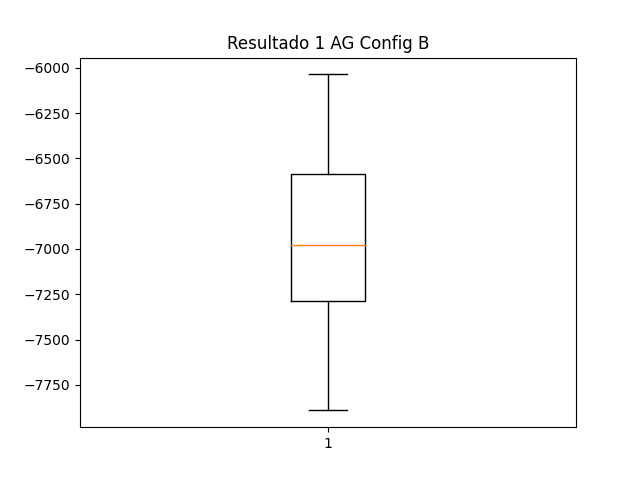
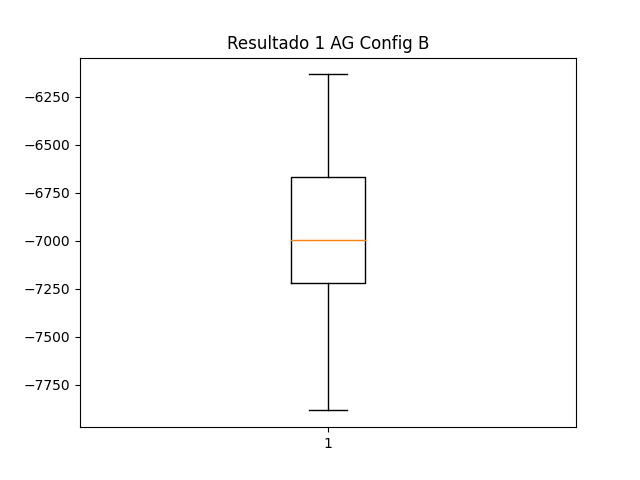
Execução nova 30x

diff --git a/main.py b/main.py
@@ -49,7 +49,7 @@ print("Critério de parada:")
 print("\tQuantidade de iterações sem uma melhora significativa: 10")
 print("\nRealizando 30 iteracoes dos algoritmos...")
 
-for i in range(5):
+for i in range(30):
    Resultado, VarsDec = questao1_A()
    Resultados1_AG_A.append(Resultado)
    ResultadosVarDec1_AG_A.append(VarsDec)
@@ -64,12 +64,12 @@ VarsSolucao = ResultadosVarDec1_AG_A[melhorSolucao]
 archive.write("\n----------------------")
 archive.write("\nFuncao Objetivo 1 - AG  Config A:")
 archive.write("\nVariaveis de decisao da melhor solução X: " + str(min(Resultados1_AG_A)))
-archive.write("\nMin: " + str(min(Resultados1_AG_A)) + "-> Variaveis de decisao: x1: "+str(VarsSolucao[0]) +" x2: "+str(VarsSolucao[1]))
+archive.write("\nMin: " + str(min(Resultados1_AG_A)) + " -> Variaveis de decisao: x1: "+str(VarsSolucao[0]) +" x2: "+str(VarsSolucao[1]))
 archive.write("\nMax: " + str(max(Resultados1_AG_A)))
 archive.write("\nMedia: " + str(mean(Resultados1_AG_A)))
 archive.write("\nStd: " + str(std(Resultados1_AG_A)))
 print("Funcao Objetivo 1 - AG  Config A:")
-print("Min: ",min(Resultados1_AG_A),"-> Variaveis de decisao: x1: ",VarsSolucao[0]," x2: ",VarsSolucao[1])
+print("Min: ",min(Resultados1_AG_A)," -> Variaveis de decisao: x1: ",VarsSolucao[0]," x2: ",VarsSolucao[1])
 print("Max: ",max(Resultados1_AG_A))
 print("Media: ",mean(Resultados1_AG_A))
 print("Std: ",std(Resultados1_AG_A))
@@ -82,13 +82,13 @@ melhorSolucao = Resultados1_AG_B.index(min(Resultados1_AG_B))
 VarsSolucao = ResultadosVarDec1_AG_B[melhorSolucao]
 
 archive.write("\n\nFuncao Objetivo 1 - AG  Config B:")
-archive.write("\nMin: " + str(min(Resultados1_AG_B)) + "-> Variaveis de decisao: x1: "+str(VarsSolucao[0]) +" x2: "+str(VarsSolucao[1]))
+archive.write("\nMin: " + str(min(Resultados1_AG_B)) + " -> Variaveis de decisao: x1: "+str(VarsSolucao[0]) +" x2: "+str(VarsSolucao[1]))
 archive.write("\nMax: " + str(max(Resultados1_AG_B)))
 archive.write("\nMedia: " + str(mean(Resultados1_AG_B)))
 archive.write("\nStd: " + str(std(Resultados1_AG_B)))
 archive.write("\n----------------------")
 print("Funcao Objetivo 1 - AG  Config B:")
-print("Min: ",min(Resultados1_AG_B),"-> Variaveis de decisao: x1: ",VarsSolucao[0]," x2: ",VarsSolucao[1])
+print("Min: ",min(Resultados1_AG_B)," -> Variaveis de decisao: x1: ",VarsSolucao[0]," x2: ",VarsSolucao[1])
 print("Max: ", max(Resultados1_AG_B))
 print("Media: ", mean(Resultados1_AG_B))
 print("Std: ", std(Resultados1_AG_B))
